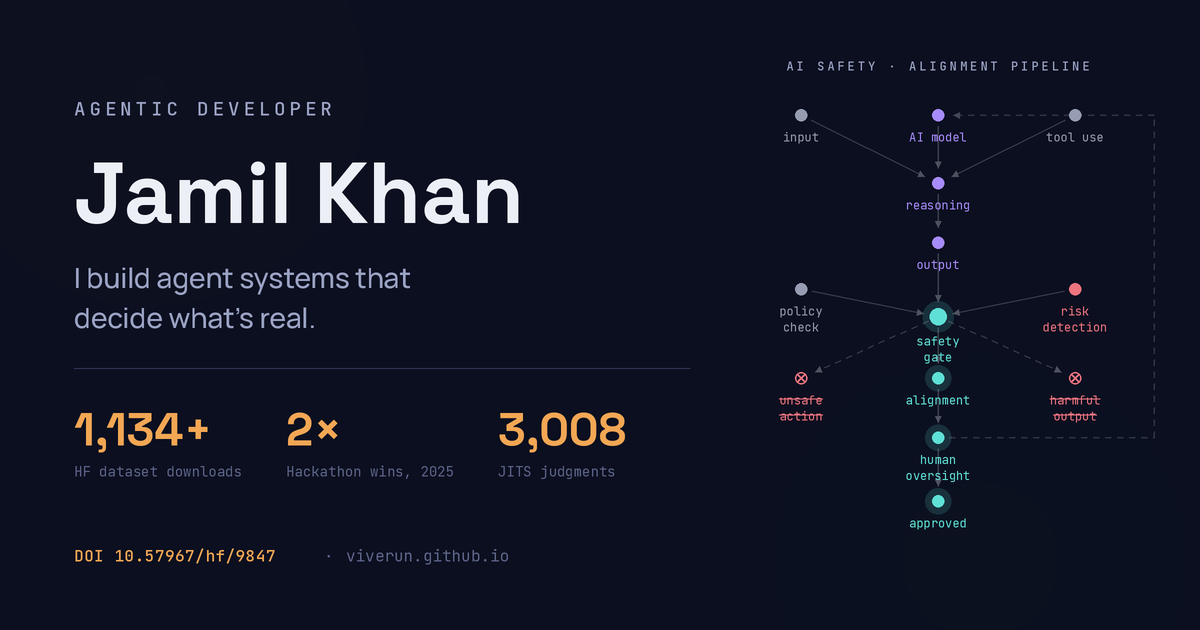
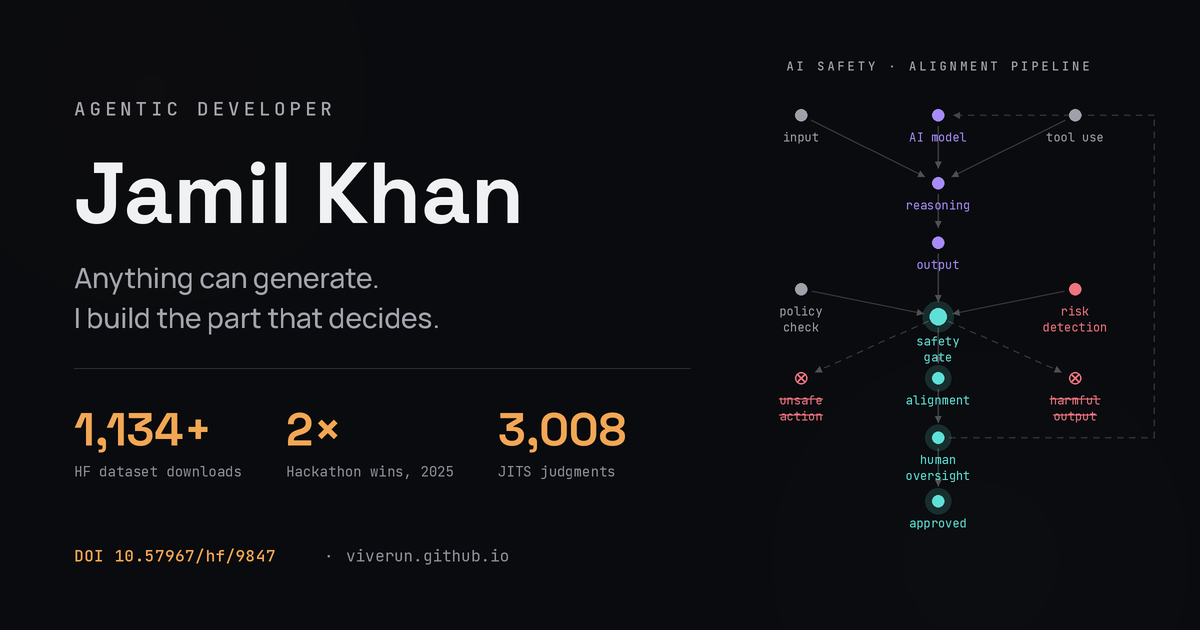
Repalette to near-black, sharpen the headline, put the work first
The navy is gone. Surfaces are near-neutral and genuinely dark
(#0A0B0E / #121419 / #1A1D24), which stops the ground tinting every
accent toward its own hue — cyan, amber, violet and rose are now the
only colour on the page. Text moved off blue-grey to neutral.

Headline is "Anything can generate. I build the part that decides."
It sets up a contrast and lands, and it names the thing the hero
diagram actually draws.

Section order is now Projects, Capabilities, About, Contact. The work
was arriving third, behind two sections of preamble; a reader who
gives this page forty seconds should hit the projects first. Nav
mirrors the new order.

The darker ground lifts every canvas label: rose 4.91 -> 5.38, violet
5.09 -> 5.58, cyan 8.65 -> 9.48. Idle/killed/done node dots were
raised so each clears 3:1 as meaningful graphics.

Verified: 0 WCAG AA failures across 157 elements at 1200px and 152 at
380px/320px; no horizontal overflow at either narrow width.

Claude-Session: https://claude.ai/code/session_01UrSKBDYAcr8LPhLHMwAEqP

diff --git a/index.html b/index.html
@@ -6,7 +6,7 @@
 <title>Jamil Khan — Agentic Developer</title>
 <meta name="description" content="Jamil Khan builds agent systems that decide what's real: an eight-agent security scanner, a VAE fraud engine, and a court-judgment dataset with a citable DOI." />
 <meta name="author" content="Jamil Khan" />
-<meta name="theme-color" content="#0B0F1F" />
+<meta name="theme-color" content="#0A0B0E" />
 <link rel="canonical" href="https://viverun.github.io/" />
 
 <!-- Open Graph / Twitter -->
@@ -54,9 +54,9 @@
 
     <div class="nav-drawer" id="navLinks">
       <nav class="nav-links" aria-label="Sections">
-        <a href="#about" data-spy="about">About</a>
-        <a href="#capabilities" data-spy="capabilities">Capabilities</a>
         <a href="#projects" data-spy="projects">Projects</a>
+        <a href="#capabilities" data-spy="capabilities">Capabilities</a>
+        <a href="#about" data-spy="about">About</a>
         <a href="#contact" data-spy="contact">Contact</a>
         <a href="assets/CV_Jamil_Khan.pdf" class="nav-resume" target="_blank" rel="noopener">Résumé ↗</a>
       </nav>
@@ -71,7 +71,7 @@
     <div class="hero-inner">
       <div class="hero-copy">
         <p class="eyebrow">Agentic Developer</p>
-        <h1 class="hero-title">I build agent systems that decide what's real.</h1>
+        <h1 class="hero-title">Anything can generate. I build the part that decides.</h1>
         <p class="hero-sub">I work across multi-agent orchestration, anomaly detection, and legal NLP, and I ship what I build: a security scanner running eight specialist agents, a fraud engine built on a variational autoencoder, and a court-judgment dataset with a citable DOI.</p>
         <div class="hero-actions">
           <a href="#projects" class="btn btn-primary">View projects</a>
@@ -114,81 +114,6 @@
 
         <figcaption>The shape all four projects below share: something proposes an action, a gate decides before it runs, and what gets thrown away is the point. Not a product — the pattern.</figcaption>
       </figure>
-    </div>
-  </section>
-
-  <!-- ===================================================== ABOUT -->
-  <section class="section section-wide" id="about">
-    <div class="section-inner about-grid">
-      <div class="about-copy">
-        <p class="eyebrow">About</p>
-        <h2 class="section-title">The interesting part is usually what gets thrown away.</h2>
-        <p>I'm Jamil, a Computer Engineering student at A.P. Shah Institute of Technology. Every system I've built has run into the same problem: generating candidates is the easy half, and knowing which ones survive scrutiny is the other one. MATRIX raises potential vulnerabilities and an exploitability gate kills most of them. Sentinel flags anomalous transactions, then a rules layer stops a wealthy customer's television purchase from becoming a fraud alert. JITS pulls citations out of 3,008 judgments and discards every self-citation before the graph is built.</p>
-        <p>That's what pulls me toward agent orchestration. LangChain, LangGraph, and MCP interest me less as ways to generate text and more as places to put a system's second opinion.</p>
-        <p>Away from the keyboard: chess, and reading about telescopes — a hobby that has produced no useful engineering insight at all, which is exactly why I keep it.</p>
-      </div>
-
-      <ul class="fact-list">
-        <li><span class="fact-label">Education</span><span class="fact-value">B.E. Computer Engineering, A.P. Shah Institute of Technology</span></li>
-        <li><span class="fact-label">Focus</span><span class="fact-value">Multi-agent orchestration and evaluation</span></li>
-        <li><span class="fact-label">Award</span><span class="fact-value verified">Apify Partner Program Winner, Hack This Fall 2025</span></li>
-        <li><span class="fact-label">Award</span><span class="fact-value verified">Hackathon Winner, TechXpression 2025</span></li>
-        <li><span class="fact-label">Elsewhere</span><span class="fact-value"><a href="https://github.com/Viverun" target="_blank" rel="noopener">github.com/Viverun</a> · <a href="https://huggingface.co/Viverun" target="_blank" rel="noopener">huggingface.co/Viverun</a></span></li>
-      </ul>
-    </div>
-  </section>
-
-  <!-- ===================================================== CAPABILITIES -->
-  <section class="section section-tight section-alt" id="capabilities">
-    <div class="section-inner">
-      <p class="eyebrow">Capabilities</p>
-      <h2 class="section-title">Every claim here points at the thing that proves it.</h2>
-
-      <ul class="cap-list">
-        <li class="cap-head" aria-hidden="true">
-          <span>Capability</span><span>How I've used it</span><span>Proof</span>
-        </li>
-        <li>
-          <span class="cap-name">Agent orchestration</span>
-          <span class="cap-what">Eight specialist agents working from one shared scan context</span>
-          <a class="cap-proof" href="#p-matrix">MATRIX</a>
-        </li>
-        <li>
-          <span class="cap-name">LLM in the loop</span>
-          <span class="cap-what">Llama 3.3 70B on Groq scoring findings behind an exploitability gate</span>
-          <a class="cap-proof" href="#p-matrix">MATRIX</a>
-        </li>
-        <li>
-          <span class="cap-name">MCP</span>
-          <span class="cap-what">Shipped as an Apify Actor an agent can call as a tool</span>
-          <a class="cap-proof" href="#p-playlistify">Playlistify AI</a>
-        </li>
-        <li>
-          <span class="cap-name">Deep learning</span>
-          <span class="cap-what">Variational autoencoder for anomalies in heavily imbalanced data</span>
-          <a class="cap-proof" href="#p-sentinel">Sentinel</a>
-        </li>
-        <li>
-          <span class="cap-name">NLP pipelines</span>
-          <span class="cap-what">Deterministic extraction across 3,008 judgments and 802,552 similarity edges</span>
-          <a class="cap-proof" href="#p-jits">JITS</a>
-        </li>
-        <li>
-          <span class="cap-name">Async services</span>
-          <span class="cap-what">FastAPI with Redis Queue workers and concurrent HTTP</span>
-          <a class="cap-proof" href="#p-matrix">MATRIX</a>
-        </li>
-        <li>
-          <span class="cap-name">Data &amp; caching</span>
-          <span class="cap-what">PostgreSQL and SQLite, Redis caching, rate limiting, OAuth</span>
-          <a class="cap-proof" href="#p-playlistify">Playlistify AI</a>
-        </li>
-        <li>
-          <span class="cap-name">Containers &amp; deploy</span>
-          <span class="cap-what">Docker Compose for local stacks, static and PaaS deploys</span>
-          <a class="cap-proof" href="#p-matrix">MATRIX</a>
-        </li>
-      </ul>
     </div>
   </section>
 
@@ -371,6 +296,81 @@
 
         </div>
       </div>
+    </div>
+  </section>
+
+  <!-- ===================================================== CAPABILITIES -->
+  <section class="section section-tight section-alt" id="capabilities">
+    <div class="section-inner">
+      <p class="eyebrow">Capabilities</p>
+      <h2 class="section-title">Every claim here points at the thing that proves it.</h2>
+
+      <ul class="cap-list">
+        <li class="cap-head" aria-hidden="true">
+          <span>Capability</span><span>How I've used it</span><span>Proof</span>
+        </li>
+        <li>
+          <span class="cap-name">Agent orchestration</span>
+          <span class="cap-what">Eight specialist agents working from one shared scan context</span>
+          <a class="cap-proof" href="#p-matrix">MATRIX</a>
+        </li>
+        <li>
+          <span class="cap-name">LLM in the loop</span>
+          <span class="cap-what">Llama 3.3 70B on Groq scoring findings behind an exploitability gate</span>
+          <a class="cap-proof" href="#p-matrix">MATRIX</a>
+        </li>
+        <li>
+          <span class="cap-name">MCP</span>
+          <span class="cap-what">Shipped as an Apify Actor an agent can call as a tool</span>
+          <a class="cap-proof" href="#p-playlistify">Playlistify AI</a>
+        </li>
+        <li>
+          <span class="cap-name">Deep learning</span>
+          <span class="cap-what">Variational autoencoder for anomalies in heavily imbalanced data</span>
+          <a class="cap-proof" href="#p-sentinel">Sentinel</a>
+        </li>
+        <li>
+          <span class="cap-name">NLP pipelines</span>
+          <span class="cap-what">Deterministic extraction across 3,008 judgments and 802,552 similarity edges</span>
+          <a class="cap-proof" href="#p-jits">JITS</a>
+        </li>
+        <li>
+          <span class="cap-name">Async services</span>
+          <span class="cap-what">FastAPI with Redis Queue workers and concurrent HTTP</span>
+          <a class="cap-proof" href="#p-matrix">MATRIX</a>
+        </li>
+        <li>
+          <span class="cap-name">Data &amp; caching</span>
+          <span class="cap-what">PostgreSQL and SQLite, Redis caching, rate limiting, OAuth</span>
+          <a class="cap-proof" href="#p-playlistify">Playlistify AI</a>
+        </li>
+        <li>
+          <span class="cap-name">Containers &amp; deploy</span>
+          <span class="cap-what">Docker Compose for local stacks, static and PaaS deploys</span>
+          <a class="cap-proof" href="#p-matrix">MATRIX</a>
+        </li>
+      </ul>
+    </div>
+  </section>
+
+  <!-- ===================================================== ABOUT -->
+  <section class="section section-wide" id="about">
+    <div class="section-inner about-grid">
+      <div class="about-copy">
+        <p class="eyebrow">About</p>
+        <h2 class="section-title">The interesting part is usually what gets thrown away.</h2>
+        <p>I'm Jamil, a Computer Engineering student at A.P. Shah Institute of Technology. Every system I've built has run into the same problem: generating candidates is the easy half, and knowing which ones survive scrutiny is the other one. MATRIX raises potential vulnerabilities and an exploitability gate kills most of them. Sentinel flags anomalous transactions, then a rules layer stops a wealthy customer's television purchase from becoming a fraud alert. JITS pulls citations out of 3,008 judgments and discards every self-citation before the graph is built.</p>
+        <p>That's what pulls me toward agent orchestration. LangChain, LangGraph, and MCP interest me less as ways to generate text and more as places to put a system's second opinion.</p>
+        <p>Away from the keyboard: chess, and reading about telescopes — a hobby that has produced no useful engineering insight at all, which is exactly why I keep it.</p>
+      </div>
+
+      <ul class="fact-list">
+        <li><span class="fact-label">Education</span><span class="fact-value">B.E. Computer Engineering, A.P. Shah Institute of Technology</span></li>
+        <li><span class="fact-label">Focus</span><span class="fact-value">Multi-agent orchestration and evaluation</span></li>
+        <li><span class="fact-label">Award</span><span class="fact-value verified">Apify Partner Program Winner, Hack This Fall 2025</span></li>
+        <li><span class="fact-label">Award</span><span class="fact-value verified">Hackathon Winner, TechXpression 2025</span></li>
+        <li><span class="fact-label">Elsewhere</span><span class="fact-value"><a href="https://github.com/Viverun" target="_blank" rel="noopener">github.com/Viverun</a> · <a href="https://huggingface.co/Viverun" target="_blank" rel="noopener">huggingface.co/Viverun</a></span></li>
+      </ul>
     </div>
   </section>
 

diff --git a/assets/style.css b/assets/style.css
@@ -21,11 +21,14 @@
    grey/violet/rose/cyan, and amber keeps meaning exactly one thing.
    ========================================================= */
 :root {
-  /* --- surfaces --- */
-  --bg:                 #0B0F1F;
-  --surface:            #131A33;
-  --surface-2:          #1A2340;
-  --on-accent:          #0B0F1F;
+  /* --- surfaces ---
+     Near-neutral and genuinely dark. The old navy tinted every accent
+     toward its own hue; on this ground the cyan, amber, violet and rose
+     are the only colour on the page, which is the point. */
+  --bg:                 #0A0B0E;
+  --surface:            #121419;
+  --surface-2:          #1A1D24;
+  --on-accent:          #0A0B0E;
 
   /* --- semantic accents --- */
   --verified:           #F2A754;
@@ -34,20 +37,20 @@
   --action-hi:          #8AEDE5;
 
   /* --- text --- */
-  --text:               #EDEFF7;
-  --text-muted:         #9BA3C4;
-  --text-faint:         #8A93BA;
+  --text:               #F0F1F3;
+  --text-muted:         #A2A5AD;
+  --text-faint:         #8E919B;
 
   /* --- lines --- */
-  --border:             rgba(237, 239, 247, 0.08);
-  --border-strong:      rgba(237, 239, 247, 0.16);
-  --nav-bg:             rgba(11, 15, 31, 0.86);
+  --border:             rgba(240, 241, 243, 0.08);
+  --border-strong:      rgba(240, 241, 243, 0.16);
+  --nav-bg:             rgba(10, 11, 14, 0.86);
 
   /* --- canvas-only channels (rgb triplets for alpha compositing) --- */
   --rgb-action:         95, 224, 214;
   --rgb-proc:           167, 139, 250;   /* #A78BFA — the model, processing */
   --rgb-flag:           238, 116, 128;   /* #EE7480 — risk raised / blocked */
-  --rgb-text:           237, 239, 247;
+  --rgb-text:           240, 241, 243;
 
   /* --- type families --- */
   --font-display:       'Space Grotesk', system-ui, sans-serif;
@@ -377,7 +380,7 @@ button:focus-visible {
   display: flex;
   flex-direction: column;
 }
-:root { --viz-line: rgba(237, 239, 247, 0.028); }
+:root { --viz-line: rgba(240, 241, 243, 0.032); }
 
 .viz-head {
   display: flex;

diff --git a/assets/script.js b/assets/script.js
@@ -136,7 +136,7 @@
 
   /* dot colour, label colour. Labels run brighter — 11px type needs it. */
   var PAINT = {
-    idle: grey(0.34), done: grey(0.48), killed: grey(0.44),
+    idle: grey(0.40), done: grey(0.50), killed: grey(0.46),
     proc: PROC, flag: FLAG, pass: ACTION, blocked: FLAG
   };
   /* Labels run brighter than their dots — 11px type needs it, and these
